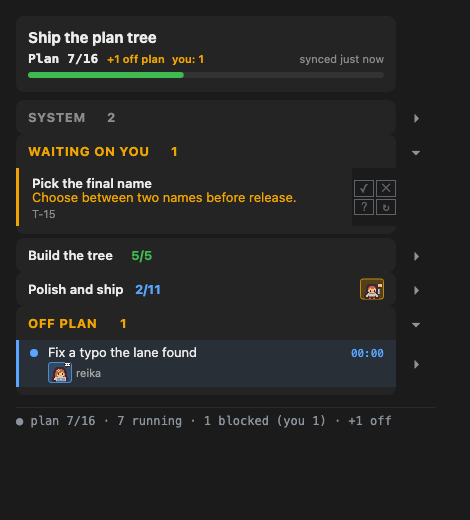
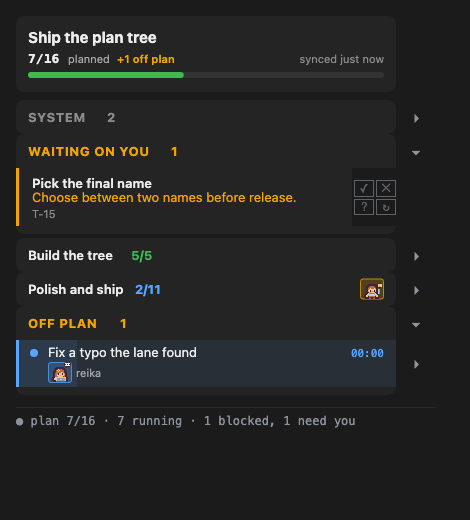
README: current panel picture, animated 100% done pane with all four characters

Changed region(s): [[0.0596, 0.0923, 0.417, 0.1231], [0.566, 0.8, 0.834, 0.8308]]

diff --git a/tools/charpane.ts b/tools/charpane.ts
@@ -78,3 +78,38 @@ for (const theme of ['dark', 'light'] as const) {
   }
 }
 console.log('wrote shots/pane-chars-*.png')
+
+// 0.26.76: the README's panel picture (the mid-plan sample, tiles with their characters) and the animated 100% picture: the whole pane at a finished plan,
+// all four characters dancing together, one frame per 200 ms of the pane's own clock, joined by ffmpeg.
+const DOCS = join(ROOT, 'docs', 'img')
+const shotHtml = (tree: any, theme: 'dark' | 'light', scale: number, size: string, out: string) => {
+  const bg = theme === 'dark' ? '#1b1b1b' : '#ffffff'
+  const fg = theme === 'dark' ? '#e6e6e6' : '#1f2328'
+  const page = `<!doctype html><meta charset=utf-8><style>*{animation-play-state:paused!important}body{margin:0;padding:12px;background:${bg};color:${fg};font:13px -apple-system,Helvetica,sans-serif;width:${W + 76}px}.svg{line-height:0}.svg svg{display:block}.b{font:13px monospace;margin:2px;padding:2px 8px;border:1px solid #888;background:transparent;color:${fg};border-radius:4px}.b.plain{border:0}.box{width:100%}</style>${html(tree)}`
+  const f = out + '.html'
+  writeFileSync(f, page)
+  spawnSync(CHROME, ['--headless=new', '--disable-gpu', '--hide-scrollbars', `--force-device-scale-factor=${scale}`, `--window-size=${size}`, `--screenshot=${out}`, 'file://' + f], { stdio: 'ignore' })
+  rmSync(f)
+}
+const samplePlan = (await Bun.file(join(ROOT, 'tools', 'sample', 'plan.json')).text())
+const doneBefore = mk('Build the tree', true).replace('"id":"T-4","title":"Check the colours","state":"done"', '"id":"T-4","title":"Check the colours","state":"todo"').replace('"state":"done","kind":"code"', '"state":"running","kind":"code"')
+const finished = mk('Build the tree', true)
+const TMP = join(ROOT, 'demo-out', 'panegif')
+mkdirSync(TMP, { recursive: true })
+for (const theme of ['dark', 'light'] as const) {
+  setTheme(theme)
+  setCardSourcesForTest({ plan: parsePlan(samplePlan, T0) })
+  resetTripForTest()
+  shotHtml(paneSvgTree($, kit, Math.ceil((W + 8) / 8), undefined, T0, graphOf()), theme, 2, `${W + 64},470`, join(DOCS, `pane-panel-${theme}.png`))
+  const FR = 30
+  for (let i = 0; i < FR; i++) {
+    resetTripForTest()
+    setCardSourcesForTest({ plan: parsePlan(doneBefore, T0) }); paneSvgTree($, kit, Math.ceil((W + 8) / 8), undefined, T0, graphOf())
+    setCardSourcesForTest({ plan: parsePlan(finished, T0 + 1000) }); paneSvgTree($, kit, Math.ceil((W + 8) / 8), undefined, T0 + 1000, graphOf())
+    setCardSourcesForTest({ plan: parsePlan(finished, T0 + 5000 + i * 200) })
+    shotHtml(paneSvgTree($, kit, Math.ceil((W + 8) / 8), undefined, T0 + 5000 + i * 200, graphOf()), theme, 1, `${W + 64},262`, join(TMP, `f${String(i).padStart(2, '0')}.png`))
+  }
+  const g = Bun.spawnSync(['ffmpeg', '-y', '-loglevel', 'error', '-framerate', '5', '-i', join(TMP, 'f%02d.png'), '-vf', 'split[a][b];[a]palettegen=max_colors=128[p];[b][p]paletteuse=dither=none', '-loop', '0', join(DOCS, `pane-done-${theme}.gif`)])
+  console.log(g.exitCode === 0 ? `wrote docs/img/pane-done-${theme}.gif` : 'ffmpeg failed')
+}
+rmSync(TMP, { recursive: true, force: true })

diff --git a/README.md b/README.md
@@ -15,15 +15,8 @@ The plan as a calm tree. Open a section to see its steps, who is working on each
 
 <p align="center">
   <picture>
-    <source media="(prefers-color-scheme: light)" srcset="docs/img/shot-milestone-light.png">
-    <img src="docs/img/shot-milestone-dark.png" alt="The panel with Running now opened: each step shows its state pill, who is on it, its ID and how long it has run" width="420">
-  </picture>
-</p>
-
-<p align="center">
-  <picture>
-    <source media="(prefers-color-scheme: light)" srcset="docs/img/shot-waiting-light.png">
-    <img src="docs/img/shot-waiting-dark.png" alt="Needs you opened: a step waiting on you reads WAITING: YOU, a step waiting on something else reads WAITING: and that item's ID" width="420">
+    <source media="(prefers-color-scheme: light)" srcset="docs/img/pane-panel-light.png">
+    <img src="docs/img/pane-panel-dark.png" alt="The pane mid-plan: the goal card with its progress bar, the four tiles each with its character, and the Needs you, Running now and milestone rows below" width="420">
   </picture>
 </p>
 
@@ -32,7 +25,10 @@ The plan as a calm tree. Open a section to see its steps, who is working on each
 Four small pixel characters sit in the summary tiles: Running, Needs you, To go and Done. A tile with a count of 0 goes dim and its character falls asleep; any other count wakes it. They are never still: each plays one of several hand-drawn animations, then swaps to another. When every step is done the four run up into the goal card and dance together, and the Done tile turns lightly green.
 
 <p align="center">
-  <img src="docs/img/characters-dance.gif" alt="The four characters dancing together, frame by frame" width="420">
+  <picture>
+    <source media="(prefers-color-scheme: light)" srcset="docs/img/pane-done-light.gif">
+    <img src="docs/img/pane-done-dark.gif" alt="The pane at 100% done: all four characters dance together in the goal card and the Done tile is lightly shaded green" width="420">
+  </picture>
 </p>
 
 The same characters live on the plan page and in the pane.
